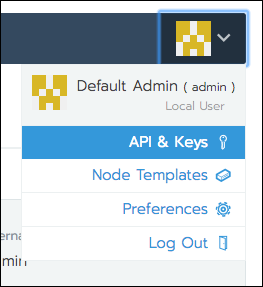
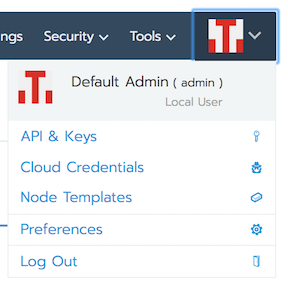
cloud credential management

diff --git a/content/rancher/v2.x/en/user-settings/cloud-credentials/_index.md b/content/rancher/v2.x/en/user-settings/cloud-credentials/_index.md
@@ -1,0 +1,41 @@
+---
+title: Managing Cloud Credentials
+weight: 7010
+---
+
+When you provision a cluster [hosted by an infrastructure provider]({{< baseurl >}}/rancher/v2.x/en/cluster-provisioning/rke-clusters/node-pools), [node templates]({{< baseurl >}}/rancher/v2.x/en/cluster-provisioning/rke-clusters/node-pools/#node-templates) are used to provision the cluster nodes. These templates use Docker Machine configuration options to define an operating system image and settings/parameters for the node. 
+
+Starting rancher 2.2, Node Templates use Cloud Credentials to access the credential information required to provision nodes in the cloud providers. The same cloud credential can be used by multiple node templates. This saves you the hassle of re-entering access keys for the cloud provider. Cloud Credentials are stored in Kubernetes Secrets.
+
+You can create cloud credentials in two contexts:
+
+- While [provisioning a node pool cluster]({{< baseurl >}}/rancher/v2.x/en/cluster-provisioning/rke-clusters/node-pools).
+- At any time, from your [user settings](#creating-a-node-template-from-user-settings).
+
+When you create a cloud credential, it is bound to your user profile. Cloud Credentials cannot be shared among users.
+
+## Creating a Cloud Credential from User Settings
+
+1. From your user settings, select **User Avatar > Cloud Credentials**.
+1. Click **Add Cloud Credential**.
+1. Select one of the Cloud Credential Types available, these correspond to the available cloud providers for Node Templates. 
+1. Enter required values for the type you selected.
+
+**Result:** The cloud credential is configured. You can use the cloud credential later when you [create a node template]({{< baseurl >}}/rancher/v2.x/en/cluster-provisioning/rke-clusters/node-templates).
+
+## Updating a Cloud Credential
+
+When your access credentials change or you want to rotate or invalidate credential data, you can update a cloud credential. 
+
+1. From your user settings, select **User Avatar > Cloud Credentials**.
+1. Choose the cloud credential you want to edit and click on the vertical ellipsis button at the end of the row and choose **Edit**.
+1. Enter updated information and click **Save**.
+
+**Result:** The cloud credential has been updated and configured. Existing node templates using this cloud credential will automatically use the updated information when [new nodes are added]({{< baseurl >}}/rancher/v2.x/en/cluster-provisioning/rke-clusters/node-pools).
+
+## Deleting a Cloud Credential
+
+When cloud credential is no longer used by any node template, you can delete it from your user settings.
+
+1. From your user settings, select **User Avatar > Cloud Credentials**.
+1. Select one or more cloud credentials from the list. Then click **Delete**. Confirm the delete when prompted.

diff --git a/content/rancher/v2.x/en/cluster-provisioning/rke-clusters/_index.md b/content/rancher/v2.x/en/cluster-provisioning/rke-clusters/_index.md
@@ -15,6 +15,10 @@ RKE launched clusters are separated into two categories:
 
     Using Rancher, you can create pools of nodes based on a [node template]({{< baseurl >}}/rancher/v2.x/en/cluster-provisioning/rke-clusters/node-pools/#node-templates). This node template defines the parameters you want to use to launch nodes in your cloud providers. The available cloud providers to create a node template are decided based on active [node drivers]({{< baseurl >}}/rancher/v2.x/en/cluster-provisioning/rke-clusters/node-pools/#node-drivers). The benefit of using a node hosted by an infrastructure provider is that if a node loses connectivity with the cluster, Rancher will automatically create another node to join the cluster to ensure that the count of the node pool is as expected.
 
+    Starting 2.2, you will create [cloud credential]({{< baseurl >}}/rancher/v2.x/en/cluster-provisioning/rke-clusters/node-pools/#cloud-credentials) to store credentials for launching nodes in your cloud providers. There are two benefits of using cloud credential - 
+    - Credentials are stored in Kubernetes secrets for security. This also means you no longer have to enter credential every time you edit a node template.
+    - Multiple node templates can share the same cloud credential to create node pools. So when your keys are expired or compromised, you can just update cloud credential in one place and changes will be updated to all the node templates using it. 
+
 - [Custom Nodes]({{< baseurl >}}/rancher/v2.x/en/cluster-provisioning/rke-clusters/custom-nodes/):
 
     For use cases where you want to provision bare-metal servers, on-premise virtual machines, or bring virtual machines that already exist in a cloud provider. With this option, you will run a Rancher agent Docker container on the machine.

diff --git a/content/rancher/v2.x/en/user-settings/_index.md b/content/rancher/v2.x/en/user-settings/_index.md
@@ -11,7 +11,8 @@ Within Rancher, each user has a number of settings associated with their login: 
 
 The available user settings are:
 
-- [API & Keys]({{< baseurl >}}/rancher/v2.x/en/user-settings/api-keys/): If you want to interact with Rancher programmatically, you need an API key. Follow the directions in this section to obtain a key.
+- [API & Keys]({{< baseurl >}}/rancher/v2.x/en/user-settings/api-keys/): If you want to interact with Rancher programmatically, you need an API key. Follow the directions in this section to obtain a key.gferfgre
+- [Cloud Credentials]({{< baseurl >}}/rancher/v2.x/en/user-settings/node-templates): Manage cloud credentials [used by Node Templates]({{< baseurl >}}/rancher/v2.x/en/cluster-provisioning/rke-clusters).
 - [Node Templates]({{< baseurl >}}/rancher/v2.x/en/user-settings/node-templates): Manage templates [used by Rancher to provision nodes for clusters]({{< baseurl >}}/rancher/v2.x/en/cluster-provisioning/rke-clusters).
 - [Preferences]({{< baseurl >}}/rancher/v2.x/en/user-settings/preferences): Sets superficial preferences for the Rancher UI.
 - Log Out: Ends your user session.
